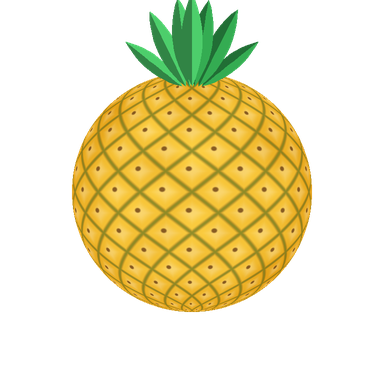
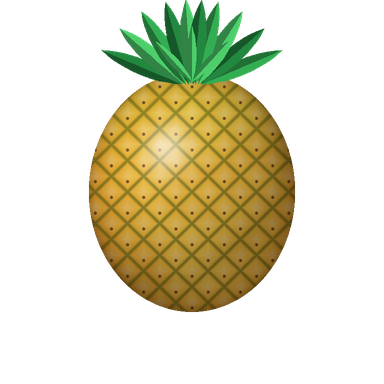
Fruit Fusion: oval pineapple, pomegranate, coconut and pumpkin replace peach, dragon fruit and cantaloupe
Claude-Session: https://claude.ai/code/session_01T2SYHFgPNunqeWjZoHiYMF

diff --git a/games/fruit_merge/art/gen_art.py b/games/fruit_merge/art/gen_art.py
@@ -257,83 +257,93 @@ def green_apple():  # crisp lime-green with a yellow blush and pale freckles
     return im
 
 
-def peach():  # soft apricot with a rosy blush and a crease
-    n = fbm(U * 2, V * 2, Z * 2, 4, 15)
-    base = mix(hexc("#FF9A5A"), hexc("#FFD9A0"), 0.3 + 0.5 * Z + (n - 0.5) * 0.4)
-    blush_t = smooth(0.35, 0.75, fbm(U * 1.4 - 2, V * 1.4, Z * 1.4, 4, 16) + U * 0.35 - V * 0.1)
-    rgb = mix(base, hexc("#F2506A"), blush_t * 0.75)
-    fuzz = vnoise(U * 70, V * 70, Z * 70, 17)
-    rgb = lit(rgb, (fuzz - 0.5) * 0.1)
-    crease_x = 0.32 * np.sqrt(np.clip(1 - V * V, 0, 1)) + 0.04 * np.sin(V * 3)
-    rgb = lit(rgb, -0.16 * (1 - smooth(0.0, 0.09, np.abs(U - crease_x))))
-    rgb = lit(rgb, 0.12 * (1 - smooth(0.04, 0.12, np.abs(U - crease_x - 0.06))))
-    rgb = dimple(rgb, size=0.15, depth=0.35)
+def pomegranate():  # deep crimson, mottled, with a crown of pointed sepals
+    n = fbm(U * 2.2, V * 2.2, Z * 2.2, 4, 15)
+    rgb = mix(hexc("#7A0A22"), hexc("#E8304E"), 0.35 + 0.5 * Z - V * 0.1 + (n - 0.5) * 0.5)
+    mott = fbm(U * 3.5 + 5, V * 3.5, Z * 3.5, 4, 16)
+    rgb = mix(rgb, hexc("#F08A5A"), smooth(0.58, 0.8, mott) * 0.35)
+    fine = vnoise(U * 50, V * 50, Z * 50, 17)
+    rgb = lit(rgb, (fine - 0.5) * 0.08)
+    rgb = dimple(rgb, cy=-0.9, size=0.2, depth=0.3)
     im = to_canvas(disc_rgba(rgb))
     dr = ImageDraw.Draw(im)
-    stem(dr, [(0.02, -0.92), (0.05, -1.06)], 0.07)
-    leaf(dr, (0.05, -1.02), (0.62, -1.18), 0.17, hexc("#3E9F45"))
-    leaf(dr, (0.03, -1.0), (-0.35, -1.32), 0.13, hexc("#2F8A3E"))
+    dr.polygon([P(-0.24, -0.88), P(-0.2, -1.06), P(0.2, -1.06), P(0.24, -0.88)], fill=(150, 20, 45, 255))
+    for k in range(6):  # sepals
+        x0 = -0.2 + k * 0.08
+        dr.polygon([P(x0, -1.04), P(x0 + 0.04 - (0.06 if k < 3 else -0.06), -1.28), P(x0 + 0.08, -1.04)],
+                   fill=(170, 28, 52, 255) if k % 2 else (120, 14, 38, 255))
+    dr.ellipse([P(-0.12, -1.1)[0], P(-0.12, -1.1)[1], P(0.12, -0.98)[0], P(0.12, -0.98)[1]], fill=(70, 8, 22, 255))
     return im
 
 
-def dragonfruit():  # hot pink with green-tipped flame scales
-    n = fbm(U * 2.5, V * 2.5, Z * 2.5, 4, 18)
-    rgb = mix(hexc("#B0105A"), hexc("#FF4FA8"), 0.35 + 0.55 * Z + (n - 0.5) * 0.4)
-    rows = (LAT + np.pi / 2) / np.pi * 5
-    ri = np.floor(rows)
-    cols = (LON / np.pi + 1) * 4 + (ri % 2) * 0.5
-    du = cols - np.floor(cols) - 0.5
-    dv = rows - ri - 0.5
-    scale = np.sqrt((du * 1.2) ** 2 + (dv * 1.6 + du * du * 1.5) ** 2)
-    rgb = lit(rgb, 0.22 * (1 - smooth(0.1, 0.42, scale)) - 0.25 * smooth(0.42, 0.55, scale))
-    tip = np.sqrt((du * 2.4) ** 2 + ((dv - 0.32) * 3.0) ** 2)
-    rgb = mix(rgb, hexc("#7BCB3A"), (1 - smooth(0.25, 0.5, tip)) * 0.9)
-    im = to_canvas(disc_rgba(rgb))
-    dr = ImageDraw.Draw(im)
-    for k, a in enumerate(np.linspace(-2.5, 2.5, 8)):  # fins sticking out around the fruit
-        bx, by = np.sin(a) * 0.9, -np.cos(a) * 0.9
-        tx, ty = np.sin(a + 0.3) * 1.15, -np.cos(a + 0.3) * 1.15
-        leaf(dr, (bx, by), (tx, ty), 0.11, hexc("#FF5FB0"), False)
-        mx, my = bx + (tx - bx) * 0.55, by + (ty - by) * 0.55
-        leaf(dr, (mx, my), (tx, ty), 0.09, hexc("#6CC23A"), False)
-    return im
+def coconut():  # brown husk with fibrous streaks and three eyes
+    n = fbm(U * 2, V * 2, Z * 2, 4, 18)
+    rgb = mix(hexc("#4A2A12"), hexc("#A8703E"), 0.3 + 0.5 * Z + (n - 0.5) * 0.5)
+    fib = fbm(LON * 30, LAT * 3, Z * 2, 4, 19)  # streaks along the meridians
+    rgb = lit(rgb, (fib - 0.5) * 0.55)
+    hair = vnoise(LON * 90, LAT * 8, Z * 4, 20)
+    rgb = mix(rgb, hexc("#D9A86A"), smooth(0.78, 0.95, hair) * 0.5)
+    for ex, ey in [(-0.12, -0.78), (0.12, -0.78), (0.0, -0.6)]:
+        d = np.sqrt((U - ex) ** 2 + (V - ey) ** 2)
+        rgb = mix(rgb, hexc("#24120A"), 1 - smooth(0.05, 0.08, d))
+    return to_canvas(disc_rgba(rgb))
 
 
-def pineapple():
-    a = (LON / np.pi) * 7 + (LAT / np.pi) * 9
-    b = (LON / np.pi) * 7 - (LAT / np.pi) * 9
+def pineapple():  # oval body of raised eyes, tall spiky crown
+    ax = 0.86  # narrower than tall
+    uu = U / ax
+    d2 = uu * uu + V * V
+    inside = d2 <= 1.0
+    z = np.sqrt(np.clip(1 - d2, 0, 1))
+    a = uu * 3.2 + V * 3.8
+    b = uu * 3.2 - V * 3.8
     fa, fb = a - np.floor(a) - 0.5, b - np.floor(b) - 0.5
-    cell = np.maximum(np.abs(fa), np.abs(fb))
-    n = fbm(U * 3, V * 3, Z * 3, 3, 19)
-    rgb = mix(hexc("#D88A00"), hexc("#FFD447"), 0.3 + 0.55 * Z + (n - 0.5) * 0.5)
-    rgb = lit(rgb, 0.25 * (1 - smooth(0.05, 0.35, cell)) - 0.35 * smooth(0.38, 0.5, cell))
-    rgb = mix(rgb, hexc("#7A9B2A"), smooth(0.43, 0.5, cell) * 0.45)
-    eye = np.sqrt(fa ** 2 + (fb + 0.12) ** 2)
-    rgb = mix(rgb, hexc("#6B3E12"), (1 - smooth(0.05, 0.11, eye)) * 0.8)
-    im = to_canvas(disc_rgba(rgb))
+    cell = np.maximum(np.abs(fa), np.abs(fb))  # diamond eyes: 0 at the centre, 0.5 on the seam
+    n = fbm(U * 3, V * 3, z * 3, 3, 21)
+    rgb = mix(hexc("#D67A0E"), hexc("#FFD24A"), 0.35 + 0.5 * z + (n - 0.5) * 0.4)
+    rgb = mix(rgb, hexc("#B9BE3A"), smooth(0.0, -0.9, V) * 0.35)  # greener towards the crown
+    rgb = lit(rgb, 0.22 * (1 - smooth(0.0, 0.42, cell)) - 0.3 * smooth(0.36, 0.5, cell))  # each eye bulges
+    rgb = mix(rgb, hexc("#7A8A22"), smooth(0.44, 0.5, cell) * 0.7)  # green seams
+    sp = np.sqrt((fa - 0.17) ** 2 + (fb + 0.17) ** 2)  # small brown point low in each eye
+    rgb = mix(rgb, hexc("#6B3A10"), (1 - smooth(0.05, 0.09, sp)) * 0.85)
+    rgb = lit(rgb, 0.25 * (1 - smooth(0.0, 0.05, np.sqrt((fa - 0.13) ** 2 + (fb + 0.21) ** 2))))
+    # Lit here, not by the shared round light layers (they would show a circle around the oval):
+    # game.gd skips the overlays for tiers in SELF_LIT.
+    L = np.array([-0.45, -0.65, 0.62]) / np.linalg.norm([-0.45, -0.65, 0.62])
+    ndl = np.clip(uu * L[0] + V * L[1] + z * L[2], 0, 1)
+    rgb = lit(rgb, -(1 - (0.3 + 0.7 * ndl)) * 0.5 - (1 - z) ** 3 * 0.2)
+    Hh = (L + np.array([0, 0, 1.0])) / np.linalg.norm(L + np.array([0, 0, 1.0]))
+    ndh = np.clip(uu * Hh[0] + V * Hh[1] + z * Hh[2], 0, 1)
+    rgb = lit(rgb, ndh ** 40 * 0.6)
+    img = np.zeros((W, W, 4))
+    img[..., :3] = np.clip(rgb, 0, 1)
+    img[..., 3] = inside.astype(float)
+    im = to_canvas(img)
     dr = ImageDraw.Draw(im)
-    crown = [(-0.55, -1.25, 0.11), (0.55, -1.25, 0.11), (-0.35, -1.5, 0.12), (0.38, -1.52, 0.12),
-             (-0.12, -1.62, 0.12), (0.14, -1.6, 0.12), (0.0, -1.66, 0.11)]
-    for i, (tx, ty, w) in enumerate(crown):
-        leaf(dr, (tx * 0.15, -0.88), (tx, ty), w, hexc("#2F9A4A") if i % 2 else hexc("#45B860"), False)
+    greens = [hexc("#1F7A3A"), hexc("#2E9B4A"), hexc("#45B860")]
+    fan = [(-0.75, -1.18, 0.09), (0.75, -1.18, 0.09), (-0.6, -1.36, 0.1), (0.6, -1.36, 0.1),
+           (-0.42, -1.5, 0.1), (0.42, -1.5, 0.1), (-0.22, -1.58, 0.1), (0.22, -1.58, 0.1),
+           (-0.05, -1.6, 0.1), (0.08, -1.6, 0.1)]
+    for k, (tx, ty, w) in enumerate(fan):
+        leaf(dr, (tx * 0.12, -0.9), (tx, ty), w, greens[k % 3], False)
+    for tx, ty in [(-0.3, -1.25), (0.3, -1.25), (0.0, -1.38)]:  # short inner leaves on top
+        leaf(dr, (0.0, -0.92), (tx, ty), 0.08, greens[2], False)
     return im
 
 
-def cantaloupe():  # warm apricot rind under a cream net
-    n = fbm(U * 2, V * 2, Z * 2, 4, 20)
-    rgb = mix(hexc("#C9782E"), hexc("#F5C27A"), 0.3 + 0.5 * Z + (n - 0.5) * 0.5)
-    s = 5.0
-    wx = U * s + fbm(U * 4, V * 4, Z * 4, 2, 21) * 0.8
-    f1, f2 = worley(wx, V * s, Z * s, 22)
-    vein = 1 - smooth(0.0, 0.08, f2 - f1)
-    rgb = lit(rgb, -0.15 * smooth(0.1, 0.4, f2 - f1))
-    rgb = mix(rgb, hexc("#FFF2D2"), vein * 0.9)
-    ribs = np.abs(np.sin(LON * 5))
-    rgb = lit(rgb, -0.12 * (1 - smooth(0.0, 0.18, ribs)))
-    rgb = dimple(rgb, size=0.12, depth=0.35)
+def pumpkin():  # deep orange with ribs and a chunky curled stem
+    n = fbm(U * 2, V * 2, Z * 2, 4, 22)
+    rgb = mix(hexc("#C0440A"), hexc("#FF9A2A"), 0.3 + 0.55 * Z + (n - 0.5) * 0.4)
+    rib = np.cos(LON * 9)
+    rgb = lit(rgb, 0.18 * smooth(0.2, 1.0, rib) - 0.35 * smooth(-0.6, -1.0, rib))
+    rgb = lit(rgb, -0.3 * (1 - smooth(0.0, 0.45, np.abs(V + 0.95))))  # sunk top
+    rgb = lit(rgb, -0.2 * (1 - smooth(0.0, 0.35, np.abs(V - 0.97))))
     im = to_canvas(disc_rgba(rgb))
     dr = ImageDraw.Draw(im)
-    stem(dr, [(0, -0.95), (0.05, -1.1)], 0.07, hexc("#7A6A2E"))
+    dr.polygon([P(-0.12, -0.86), P(-0.1, -1.18), P(0.04, -1.3), P(0.16, -1.24), P(0.1, -0.86)], fill=(92, 110, 40, 255))
+    dr.polygon([P(-0.04, -0.9), P(-0.04, -1.16), P(0.04, -1.22), P(0.04, -0.9)], fill=(130, 150, 60, 255))
+    stem(dr, [(0.12, -1.18), (0.38, -1.22), (0.5, -1.4), (0.36, -1.48)], 0.035, hexc("#4F8A2A"))
+    leaf(dr, (0.1, -1.0), (0.62, -1.15), 0.15, hexc("#3E9F45"))
     return im
 
 
@@ -355,9 +365,10 @@ def watermelon():
     return im
 
 
-# Distinct hue per tier, smallest first: blue, red, violet, yellow, orange, green, apricot, pink,
-# gold, tan, striped green. Keep game.gd COLORS (burst particles) in step with these.
-FRUITS = [blueberry, cherry, grape, lemon, orange, green_apple, peach, dragonfruit, pineapple, cantaloupe, watermelon]
+# Distinct hue (and silhouette) per tier, smallest first: blue, red, violet, yellow, orange, green,
+# crimson with a crown, brown, gold oval, ribbed orange, striped green. Keep game.gd COLORS (burst particles) in step with these.
+SELF_LIT = [8]  # pineapple: oval, lit in its own recipe
+FRUITS = [blueberry, cherry, grape, lemon, orange, green_apple, pomegranate, coconut, pineapple, pumpkin, watermelon]
 
 
 # --- light overlays --------------------------------------------------------
